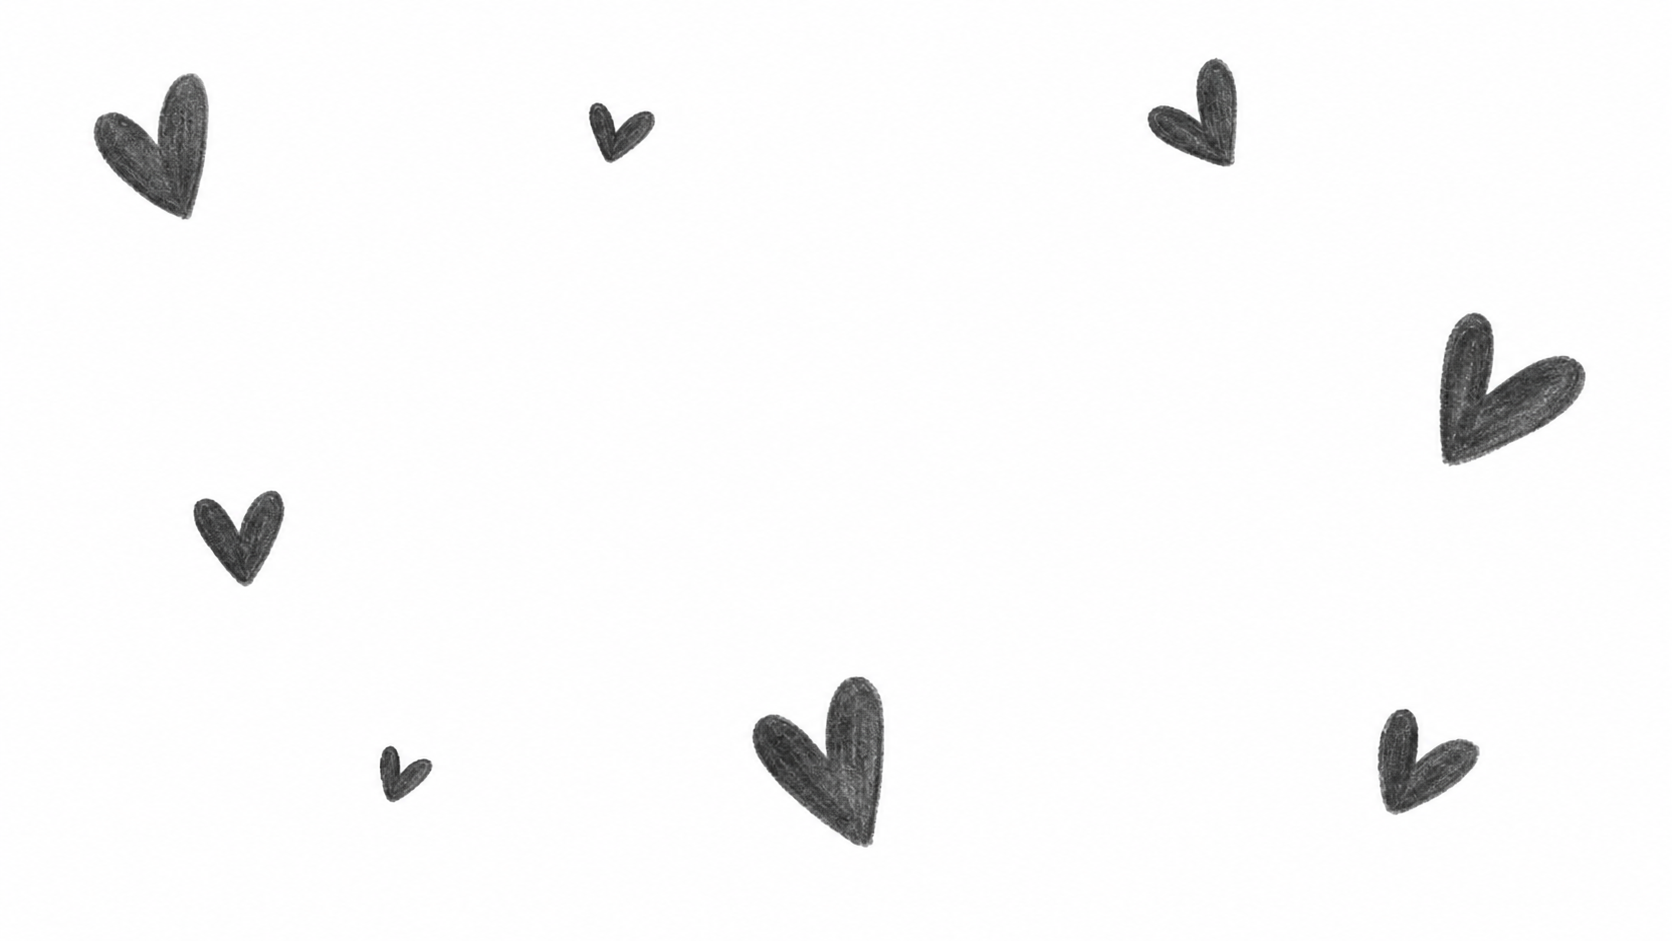
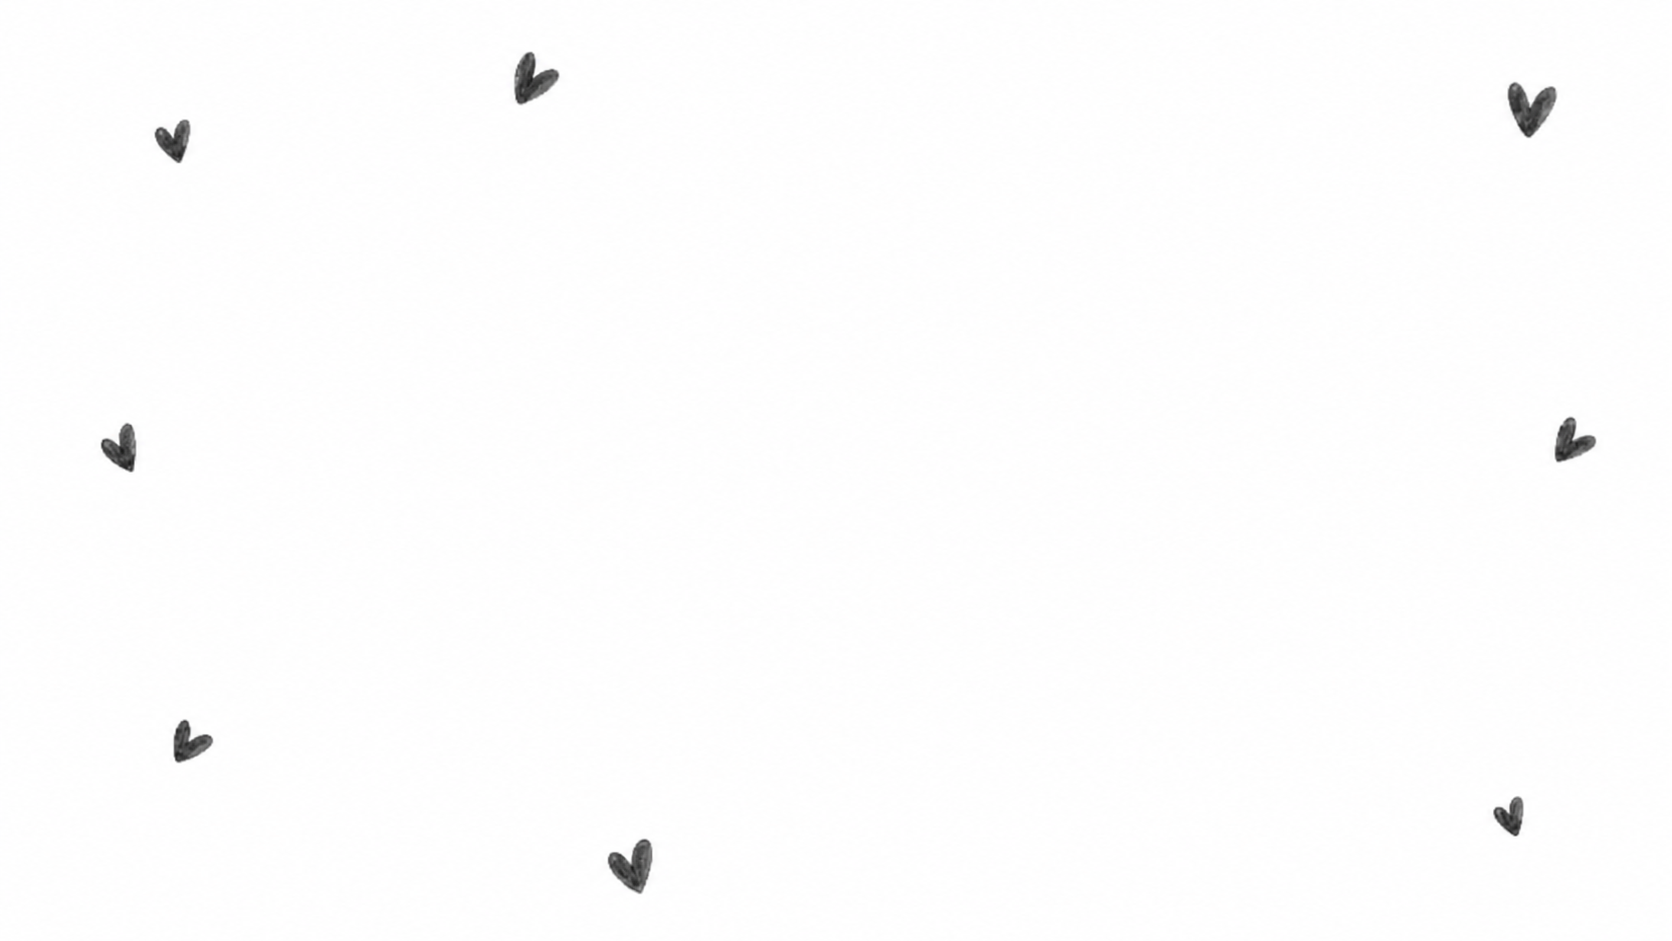
Refine wedding day illustrations

diff --git a/app/globals.css b/app/globals.css
@@ -130,12 +130,13 @@ a { color: inherit; }
 .intro { background-color: white; background-image: url("/hearts-day-background.png"); background-position: center; background-repeat: no-repeat; background-size: cover; display: grid; grid-template-columns: 1fr 1.25fr; min-height: 720px; padding: 120px 6vw; }
 .intro-title { position: relative; }
 .intro h2, .gifts h2 { font-size: clamp(88px, 10vw, 148px); }
-.wedding-rings-image { display: block; height: auto; margin: 20px 0 0 8px; width: 168px; }
+.wedding-rings-image { display: block; height: auto; margin: 18px auto 0; width: min(340px, 86%); }
 .facts { border-top: 1px solid var(--line); }
 .facts article { border-bottom: 1px solid var(--line); display: grid; gap: 12px; grid-template-columns: 120px 1fr; padding: 32px 0; position: relative; }
 .facts article > span { font-size: 10px; font-weight: 800; letter-spacing: .14em; text-transform: uppercase; }
 .fact-heading { align-items: center; display: flex; gap: 18px; }
 .fact-icon { flex: 0 0 auto; height: 38px; transform: rotate(-3deg); width: 38px; }
+.fact-illustration { flex: 0 0 auto; height: 58px; object-fit: contain; width: 46px; }
 .facts article:nth-child(2) .fact-icon { transform: rotate(4deg); }
 .facts article:nth-child(3) .fact-icon { transform: rotate(-2deg); }
 .facts h3 { font-family: Georgia, serif; font-size: clamp(25px, 3vw, 42px); font-weight: 400; letter-spacing: -.04em; margin: 0; }
@@ -277,7 +278,7 @@ footer p, footer a { font-size: 10px; font-weight: 800; letter-spacing: .14em; t
   .scroll-cue { bottom: 24px; left: 22px; }
   .intro, .timeline, .rsvp { grid-template-columns: 1fr; }
   .intro { gap: 70px; min-height: auto; padding: 90px 22px; }
-  .wedding-rings-image { margin-left: 0; width: 150px; }
+  .wedding-rings-image { margin-inline: auto; width: min(290px, 84%); }
   .facts article { grid-template-columns: 84px 1fr; }
   .timeline { padding: 85px 22px; }
   .timeline-heading { position: static; }

diff --git a/app/page.tsx b/app/page.tsx
@@ -1,7 +1,7 @@
 "use client";
 
 import { FormEvent, useEffect, useMemo, useState } from "react";
-import { CalendarDays, MapPin, Shirt } from "lucide-react";
+import { CalendarDays, MapPin } from "lucide-react";
 
 type GiftCategory = "Luna de miel" | "Nuestro hogar" | "Experiencias";
 
@@ -221,7 +221,7 @@ export default function Home() {
         <div className="intro-title">
           <p className="eyebrow">Información importante</p>
           <h2>Nos vemos<br />acá.</h2>
-          <img className="wedding-rings-image" src="/wedding-rings-exact.png" alt="Dos alianzas entrelazadas" />
+          <img className="wedding-rings-image" src="/wedding-rings-hq.png" alt="Dos alianzas entrelazadas" />
         </div>
         <div className="facts">
           <article>
@@ -246,7 +246,7 @@ export default function Home() {
           <article>
             <span>03 / Código</span>
             <div className="fact-heading">
-              <Shirt className="fact-icon" strokeWidth={1.55} aria-hidden="true" />
+              <img className="fact-illustration" src="/dress-code-dance.png" alt="" aria-hidden="true" />
               <h3>Elegantes, pero ustedes</h3>
             </div>
             <p>Traigan ganas de bailar. El resto lo ponemos nosotros.</p>
